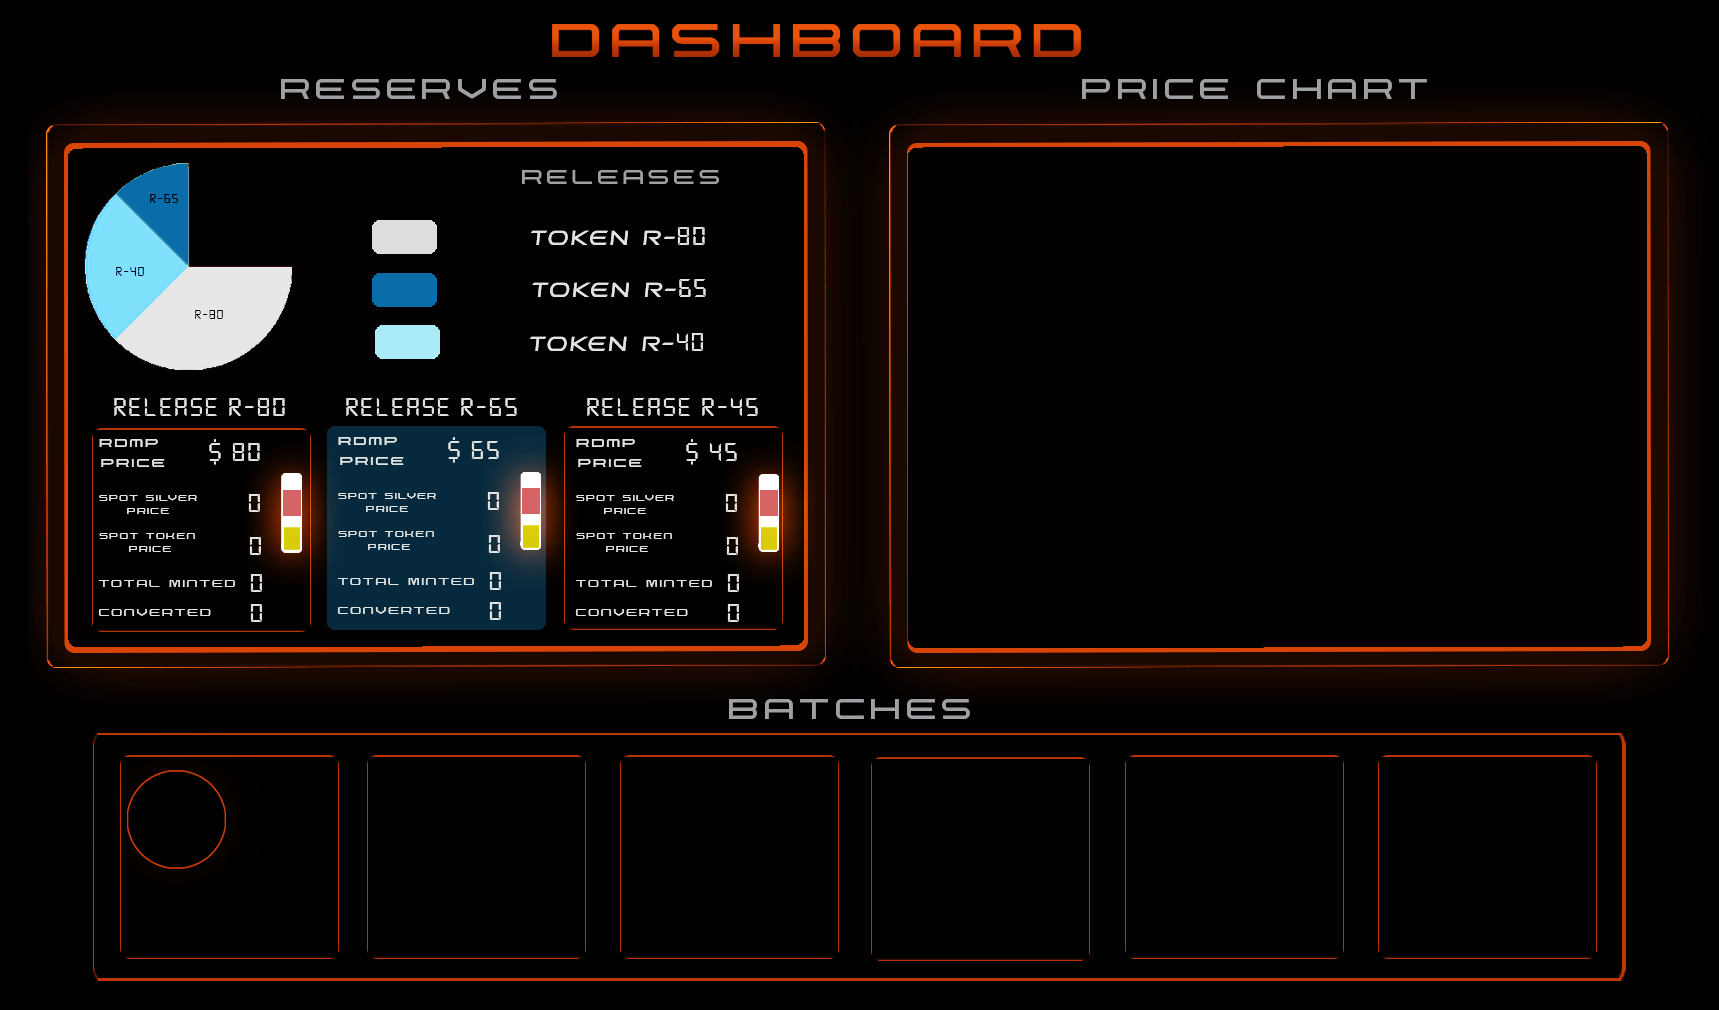
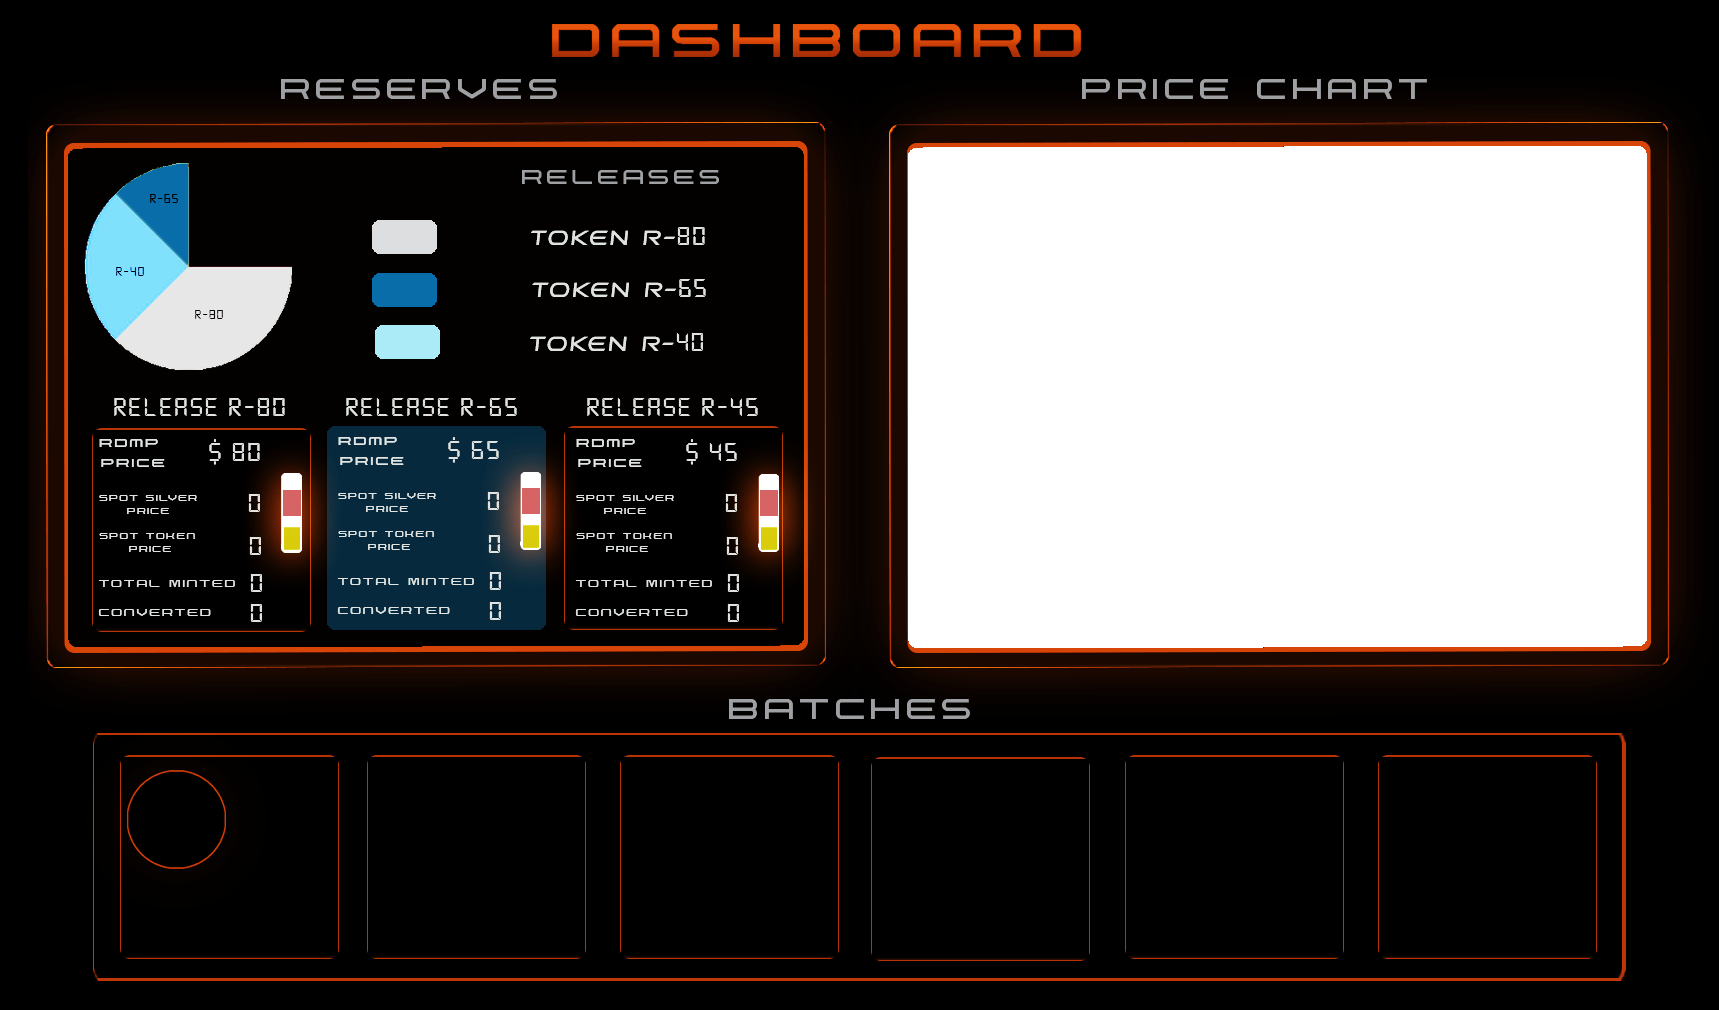
Patch #4

Changed region(s): [[0.5241, 0.1228, 0.9558, 0.6446]]

diff --git a/atomic_defi_design/Dex/Squeexe/FzChart.qml b/atomic_defi_design/Dex/Squeexe/FzChart.qml
@@ -16,6 +16,8 @@ Item
     property string loaded_symbol
     property bool pair_supported: false
     property string selected_testcoin
+    property real fzcWidth: 20.0
+    property real fzcHeight: 20.0
     onPair_supportedChanged: if (!pair_supported) webEngineViewPlaceHolderFz.visible = false
 
     function loadChart(right_ticker, left_ticker, force = false, source="livecoinwatch")
@@ -25,10 +27,10 @@ Item
 
         let chart_html = ""
         let symbol = ""
-        let widget_x = 440
-        let widget_y = 280
-        let scale_x = rootfz.width / widget_x
-        let scale_y = rootfz.height / widget_y
+        let widget_x = fzcWidth
+        let widget_y = fzcHeight
+        // let scale_x = rootfz.width / widget_x
+        // let scale_y = rootfz.height / widget_y
 
         if (source == "livecoinwatch")
         {
@@ -61,7 +63,8 @@ Item
                 <style>
                     body { margin: auto; }
                     .livecoinwatch-widget-1 {
-                        transform: scale(${Math.min(scale_x, scale_y)});
+                        width: ${widget_x};
+                        height: ${widget_y};
                         transform-origin: top left;
                     }
                 </style>

diff --git a/atomic_defi_design/Dex/Squeexe/Monitor.qml b/atomic_defi_design/Dex/Squeexe/Monitor.qml
@@ -15,6 +15,16 @@ Item {
     visible: dashboard.fz_page == 1 ? true : false;
     enabled: visible
 
+    FzChart{
+        id: fzchart
+        x: parent.width * 0.526
+        y: parent.height * 0.14
+        width: parent.width * 0.426
+        height: parent.height * 0.492
+        fzcWidth: parent.width * 0.426
+        fzcHeight: parent.height * 0.492
+    }
+
     Image {
         id: sqx_bg
         source: "qrc:///assets/images/dashconcept.png"
@@ -24,7 +34,7 @@ Item {
 
     GradientButton{
         x: 20
-        y: 20
+        y: 0
         radius: width
         width: 200
         text: qsTr("Back")
@@ -33,19 +43,12 @@ Item {
 
     SquareButton{
         x: 20
-        y: 100
-        width: 60
-        height: 60
+        y: 48
+        width: 48
+        height: 48
         icon.source: Qaterial.Icons.chevronLeft
         Layout.alignment: Qt.AlignVCenter
         onClicked: dashboard.fz_page = 0;
-    }
-
-    FzChart{
-        id: fzchart
-        width: 440
-        height: 280
-        anchors.centerIn: parent
     }
 
 //    DexRectangle{

diff --git a/atomic_defi_design/Dex/Squeexe/Squeexe.qml b/atomic_defi_design/Dex/Squeexe/Squeexe.qml
@@ -14,13 +14,6 @@ Item {
     id: squeexe
     anchors.fill: parent
 
-    // Shortcut {
-    //     sequence: "F8"
-    //     onActivated: {
-    //         sqx_labl.text = sqx_rect.width + " - " + sqx_rect.height
-    //     }
-    // }
-
     Item{
         id: fzdboard
         anchors.fill: parent
@@ -75,19 +68,6 @@ Item {
             radius: 18
             onClicked: dashboard.fz_page = 1;
         }
-
-        // Label{
-        //     id: sqx_labl
-        //     anchors.horizontalCenter: parent.horizontalCenter
-        //     y: 360
-        //     text: "empty"
-        // }        
-
-        // Rectangle{
-        //     id: sqx_rect
-        //     anchors.fill: parent
-        //     color: 'red'
-        // }
     }
 
     Monitor{
